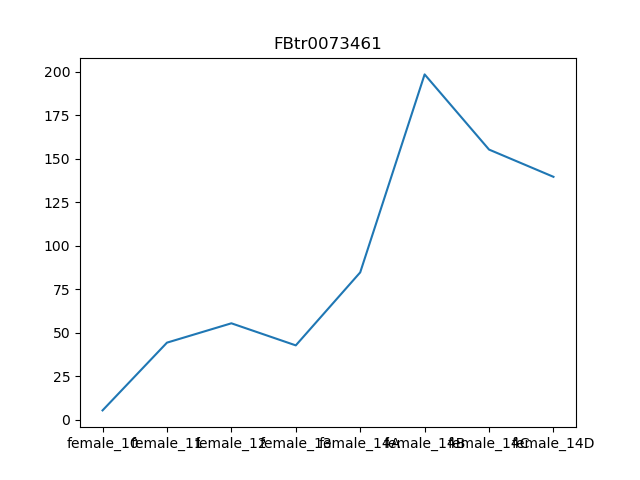
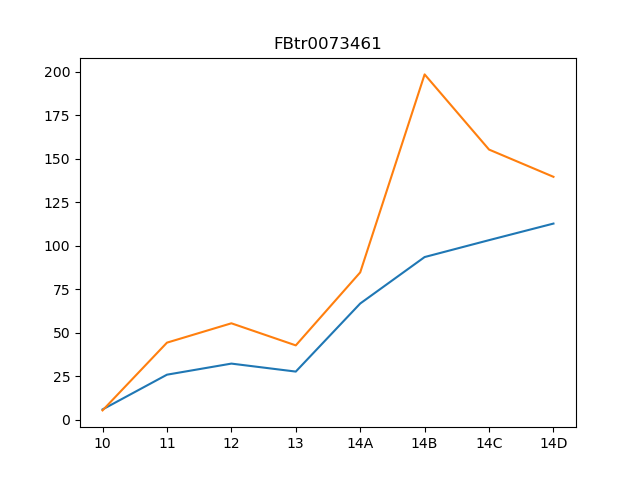
Add answer for exercise 1, step 2

diff --git a/day2-homework/plot-sisA.py b/day2-homework/plot-sisA.py
@@ -22,25 +22,35 @@ for i in range(len(transcripts)):
 
 # Find columns with samples of interest
 cols_females = []
+cols_males = []
 for i in range(len(samples)):
     if "female" in samples[i]:
         cols_females.append(i)
-
-cols_males = []
-for i in range(len(samples)):
-    if "male" in samples[i]:
+    else:
         cols_males.append(i)
+# print(cols_females)
+# print(cols_males)
 
-# Subset data of interest here
-expression = data[row, cols]
+
+# Subset data of interest
+F_expression = data[row, cols_females]
+M_expression = data[row, cols_males]
 
 # Prepare data
-x = samples[cols]
-y = expression
+x_females = samples[cols_females]
+x_males = samples[cols_males]
+y_females = F_expression
+y_males = M_expression
+
+x_axis = []
+for x in range(len(x_males)):
+    x_axis.append(x_males[x].lstrip("male_"))
+print(x_axis)
 
 # Plot data
 fig, ax = plt.subplots()
 ax.set_title( "FBtr0073461" )
-ax.plot( x, y )
+ax.plot( x_axis, y_males )
+ax.plot( x_axis, y_females )
 fig.savefig( "FBtr0073461.png" )
 plt.close( fig )
